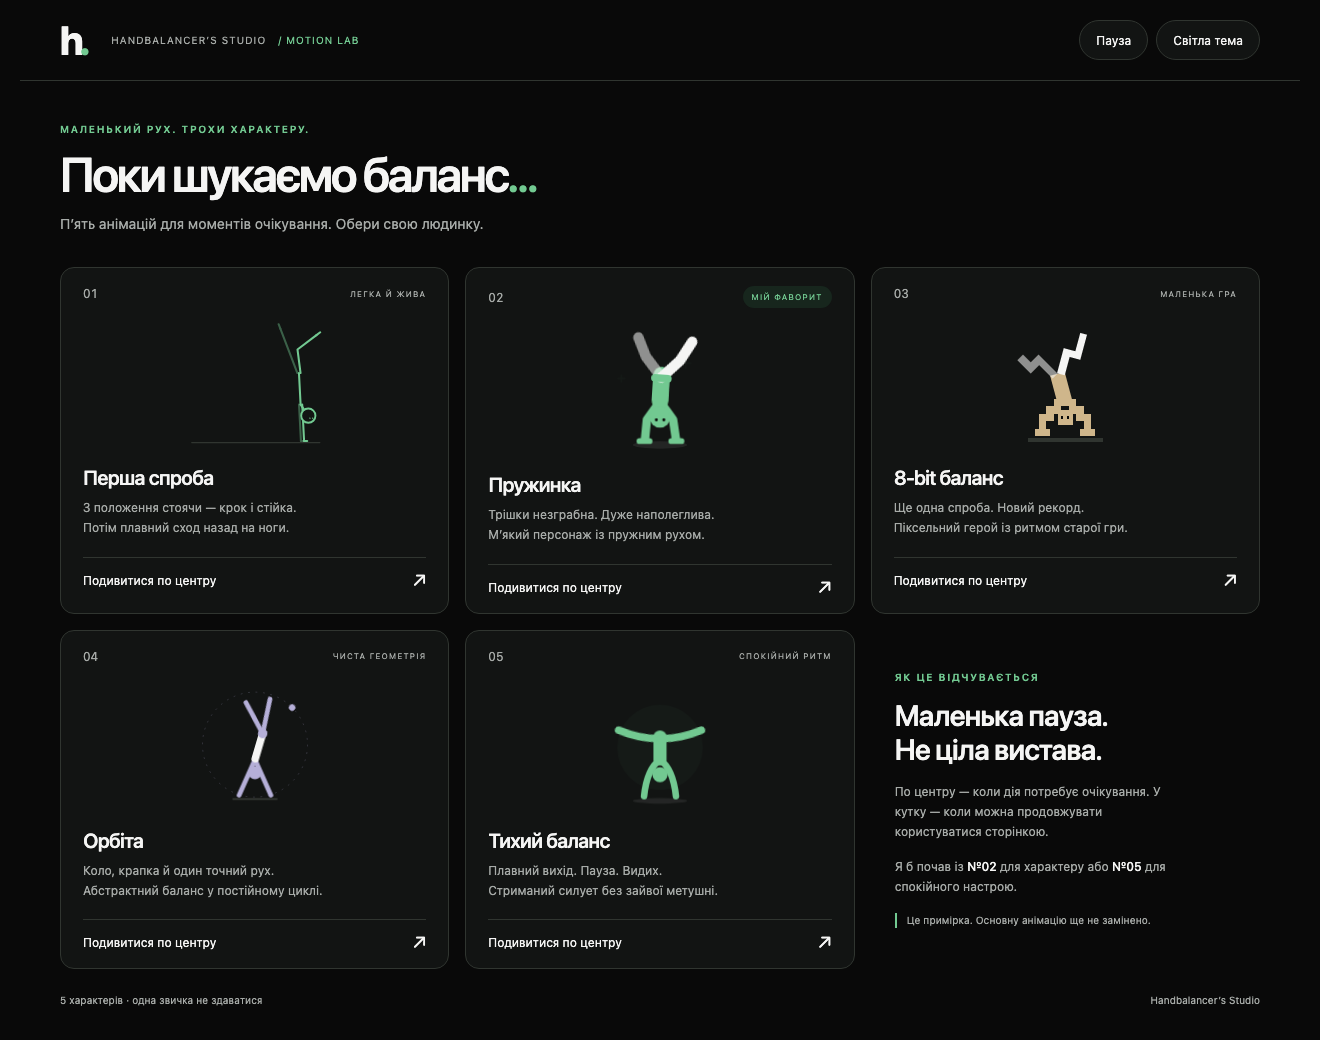
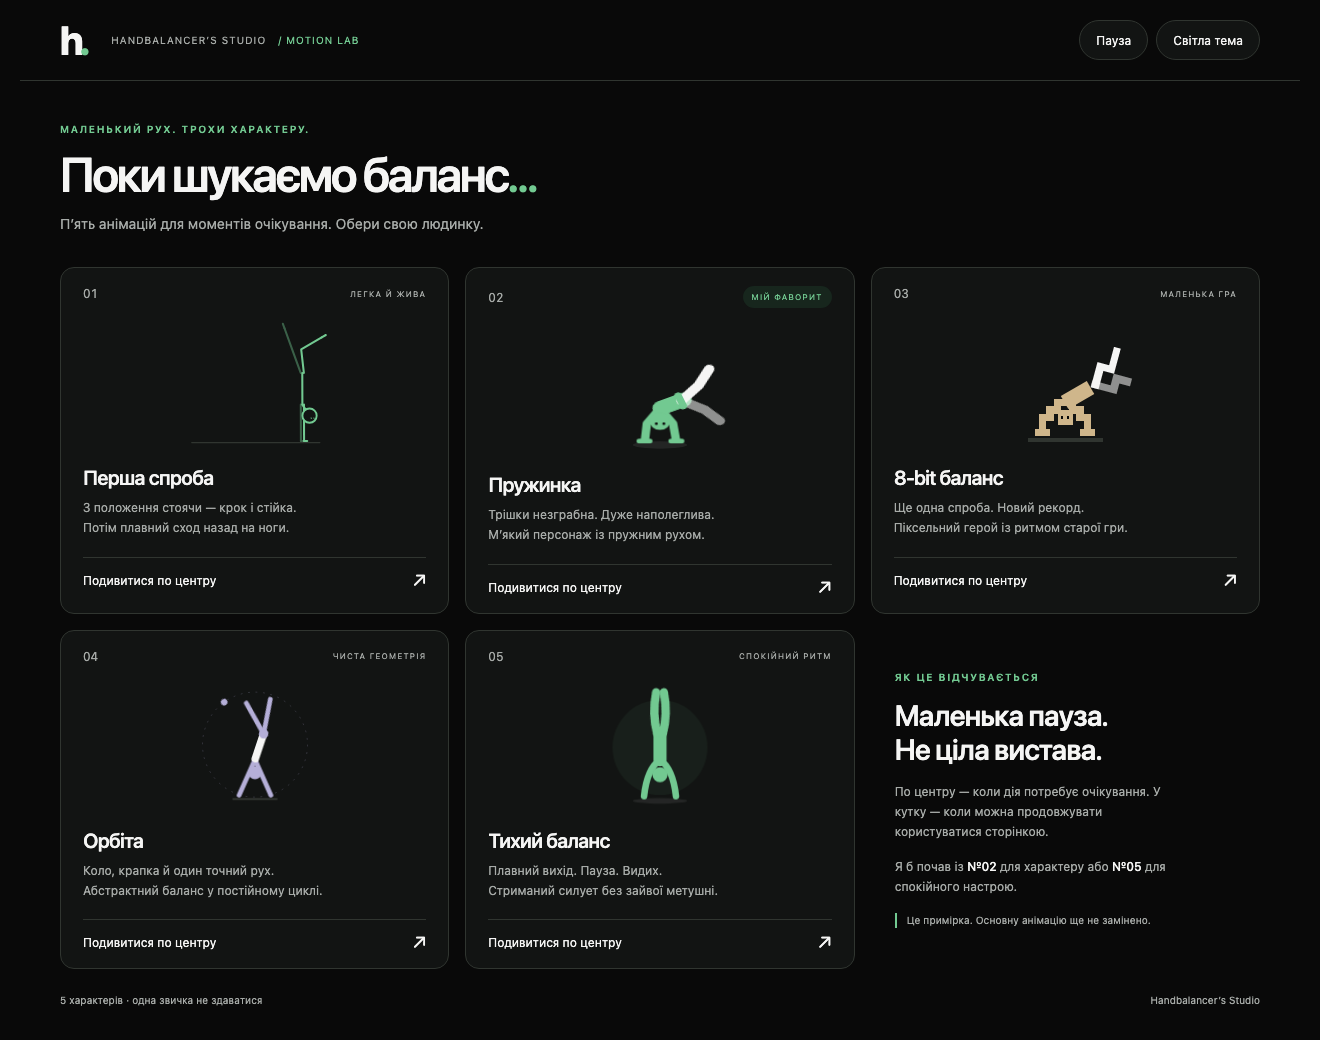
refactor(ui): smooth and accelerate handstand preview

diff --git a/server/static/previews/handstand/cycle-motion.js b/server/static/previews/handstand/cycle-motion.js
@@ -42,17 +42,17 @@ const releaseLegAngle=Math.atan2(164-releaseHip[1],118-releaseHip[0])/rad;
 export function poseAt(progress) {
   const time=clamp(progress);
   // Leave a short beat after landing for the character's pleased little nod.
-  const t=time<=.78?time:mix(.78,1,smooth((time-.78)/.16));
+  const t=time<=.78?time:mix(.78,1,clamp((time-.78)/.16));
   // Return is deliberately slower than the kick, with a different step rhythm.
   let phase=t;
   if(t>.78) phase=track(t,[[.78,.36],[.88,.24],[.96,.10],[1,0]]);
   let hip,angle,armAngle,armLength=46,backFoot,frontFoot;
   if(t>=.36 && t<=.78) {
-    angle=track(t,[[.36,30],[.405,51],[.46,83],[.51,95],
-      [.55,87],[.59,92],[.64,90],[.69,77],[.75,45],[.78,30]]);
+    angle=track(t,[[.36,30],[.405,51],[.46,83],[.51,93],
+      [.56,89],[.61,90],[.64,90],[.69,77],[.75,45],[.78,30]]);
     hip=polar([180,164],-86,angle);
     armAngle=angle;
-    const catchBalance=track(t,[[.47,0],[.53,1],[.56,.8],[.60,.25],[.625,.4],[.66,0]]);
+    const catchBalance=track(t,[[.47,0],[.54,1],[.60,.35],[.66,0]]);
     backFoot=polar([hip[0]-2,hip[1]],60,angle+180-20*catchBalance);
     if(angle<=releaseAngle) frontFoot=[118,164];
     else {
@@ -75,14 +75,14 @@ export function poseAt(progress) {
     hip=[track(phase,[[0,64],[.07,62],[.12,67],[.24,98]]),
       track(phase,[[0,104],[.07,106],[.12,105],[.24,118.64]])];
     angle=track(phase,[[0,-90],[.07,-97],[.14,-87],[.24,-60]]);
-    armAngle=track(phase,[[0,78],[.035,90],[.065,72],[.085,105],[.14,-112],[.20,-78],[.24,-60]]);
+    armAngle=track(phase,[[0,78],[.075,96],[.145,-105],[.20,-78],[.24,-60]]);
     armLength=track(phase,[[0,44],[.08,42],[.18,46],[.24,46]]);
     const stride=smooth((phase-.10)/.14);
     backFoot=[62,164];
     frontFoot=[mix(66,118,stride),164-16*Math.sin(Math.PI*stride)];
   }
   if(t>.88) {
-    armAngle=track(t,[[.88,-60],[.95,70],[.98,86],[1,78]]);
+    armAngle=track(t,[[.88,-60],[.95,70],[.98,82],[1,78]]);
     armLength=track(t,[[.88,46],[.96,44],[1,44]]);
   }
   const shoulder=polar(hip,40,angle);
@@ -143,7 +143,7 @@ export function mountHandstandCycle(svg) {
     if (!svg.isConnected) {dispose();return;}
     if (previous!==null) elapsed+=now-previous;
     previous=now;
-    drawPose(svg,(elapsed%8200)/8200);
+    drawPose(svg,(elapsed%6600)/6600);
     frame=requestAnimationFrame(tick);
   }
   function sync() {

diff --git a/docs/adr/handstand-cycle.md b/docs/adr/handstand-cycle.md
@@ -1,3 +1,15 @@
+# Темп і плавність — 2026-11-08
+
+За уточненням власника цикл скорочено8.2→6.6s (приблизно24% швидше).
+Зменшено надмірний перехід за вертикаль, прибрано другий імпульс розведення
+ніг і зайві коливання рук перед махом. Лінійне відображення часу повернення
+замість подвійного easing зменшує пік швидкості; геометричні траєкторії
+зберігають плавне завершення. GIF198frames/30fps, gallery66frames/10fps.
+Це візуальне налаштування; нових контрактів/тестів не додавали.
+Попередні4 geometry tests пройшли без послаблень. Runtime loader незмінний.
+
+## Попередня версія
+
 # Грайливіший характер — 2026-11-08
 
 Власник повторно уточнив: «Анімація може бути не такою строгою».

diff --git a/.workflow/CURRENT.md b/.workflow/CURRENT.md
@@ -1,3 +1,14 @@
+# Поточний checkpoint — плавніше й швидше, 2026-11-08
+
+Уточнення власника: «Трохи більш плавно і швидше».
+Preview цикл6.6s замість8.2s. Прибрано зайві зміни напрямку рук і повторний
+ривок ніг; поправка балансу м’якша, повернення має рівномірніше просування.
+Грайливі очі, розведення ніг і кивок залишилися. Runtime loader не змінено.
+4 geometry tests пройшли без зміни очікувань; browser evidence поруч.
+Попередній commit:abb177d. Next: оцінка темпу власником.
+
+## Попередній checkpoint
+
 # Поточний checkpoint — грайлива людинка, 2026-11-08
 
 Уточнення власника: анімація може бути менш строгою. Preview01/cycle.html:
